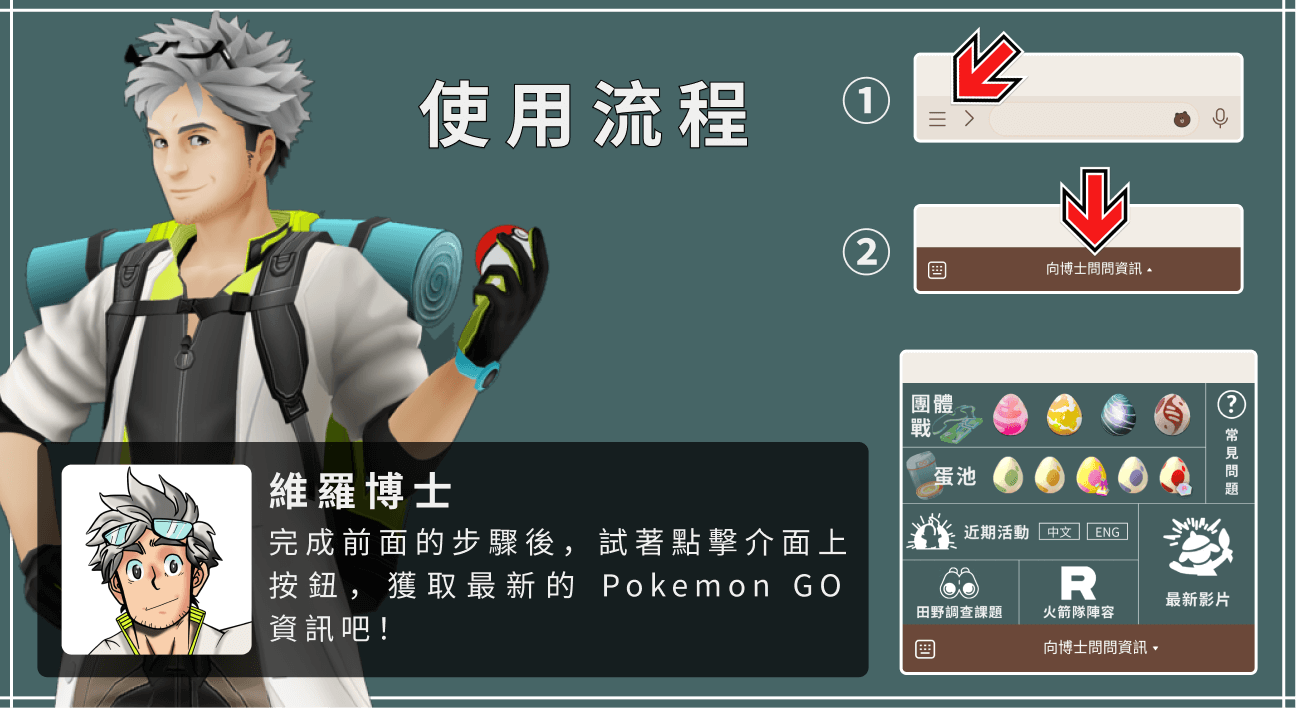
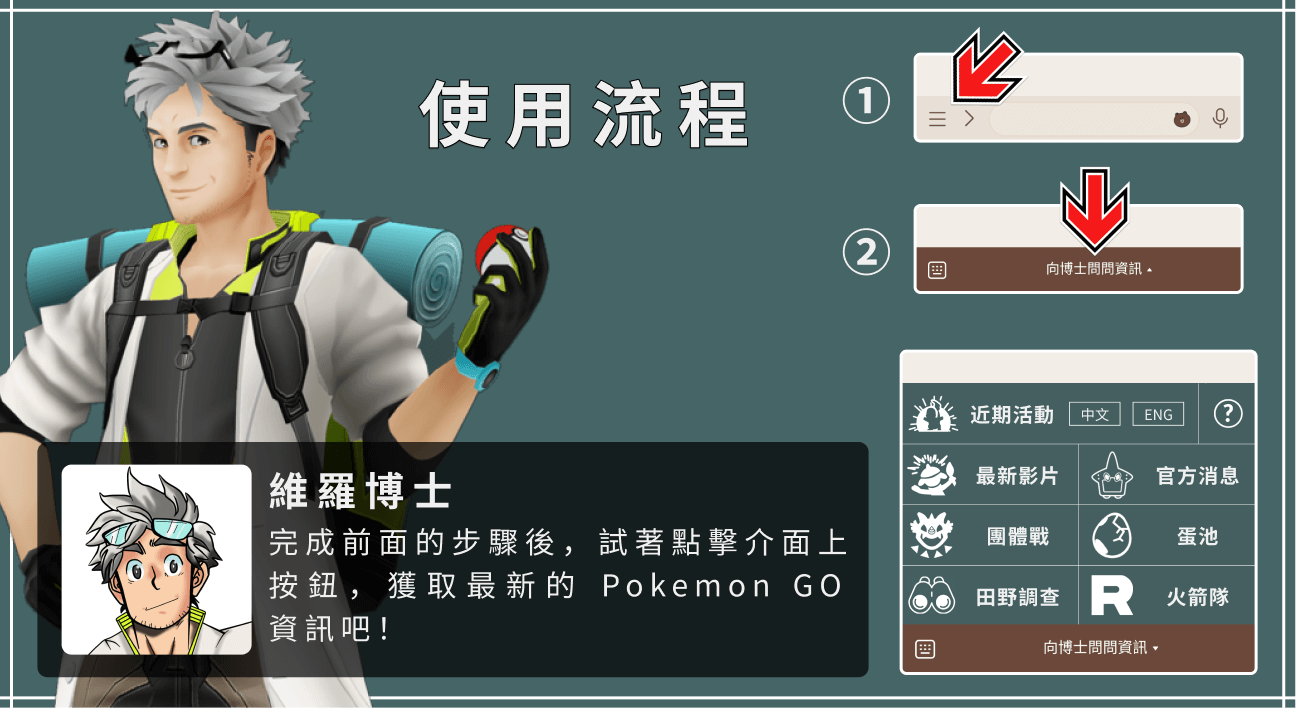
update richmenu

Changed region(s): [[0.679, 0.5593, 0.9568, 0.8701]]

diff --git a/messageTemplate/EggMessage.go b/messageTemplate/EggMessage.go
@@ -11,6 +11,74 @@ import (
 	"github.com/thoas/go-funk"
 )
 
+// GenerateEggListMessages sends LINE quick reply messages
+func GenerateEggListMessages() []linebot.SendingMessage {
+	return []linebot.SendingMessage{
+		linebot.NewTextMessage(
+			"你想要知道哪一種寶可夢蛋資訊？",
+		).WithQuickReplies(
+			linebot.NewQuickReplyItems(
+				linebot.NewQuickReplyButton(
+					"https://raw.githubusercontent.com/pmgo-professor-willow/line-chatbot/main/assets/eggs/12km.png",
+					&linebot.PostbackAction{
+						Label:       "12 公里",
+						Data:        "egg=12km",
+						DisplayText: "我想知道擊敗火箭隊幹部取得的獎勵 12 公里蛋\n(可儲存於獎勵儲存空間)",
+					},
+				),
+				linebot.NewQuickReplyButton(
+					"https://raw.githubusercontent.com/pmgo-professor-willow/line-chatbot/main/assets/eggs/10km.png",
+					&linebot.PostbackAction{
+						Label:       "10 公里",
+						Data:        "egg=10km",
+						DisplayText: "我想知道補給站取得的 10 公里蛋",
+					},
+				),
+				linebot.NewQuickReplyButton(
+					"https://raw.githubusercontent.com/pmgo-professor-willow/line-chatbot/main/assets/eggs/7km.png",
+					&linebot.PostbackAction{
+						Label:       "7 公里",
+						Data:        "egg=7km",
+						DisplayText: "我想知道透過好友禮物取得的 7 公里蛋",
+					},
+				),
+				linebot.NewQuickReplyButton(
+					"https://raw.githubusercontent.com/pmgo-professor-willow/line-chatbot/main/assets/eggs/5km.png",
+					&linebot.PostbackAction{
+						Label:       "5 公里",
+						Data:        "egg=5km",
+						DisplayText: "我想知道補給站取得的 5 公里蛋",
+					},
+				),
+				linebot.NewQuickReplyButton(
+					"https://raw.githubusercontent.com/pmgo-professor-willow/line-chatbot/main/assets/eggs/2km.png",
+					&linebot.PostbackAction{
+						Label:       "2 公里",
+						Data:        "egg=2km",
+						DisplayText: "我想知道補給站取得的 2 公里蛋",
+					},
+				),
+				linebot.NewQuickReplyButton(
+					"https://raw.githubusercontent.com/pmgo-professor-willow/line-chatbot/main/assets/eggs/10km.png",
+					&linebot.PostbackAction{
+						Label:       "時時刻刻冒險 10 公里",
+						Data:        "egg=時時刻刻冒險 10km",
+						DisplayText: "我想知道時時刻刻冒險取得的獎勵 10 公里蛋\n(可儲存於獎勵儲存空間)",
+					},
+				),
+				linebot.NewQuickReplyButton(
+					"https://raw.githubusercontent.com/pmgo-professor-willow/line-chatbot/main/assets/eggs/5km.png",
+					&linebot.PostbackAction{
+						Label:       "時時刻刻冒險 5 公里",
+						Data:        "egg=時時刻刻冒險 5km",
+						DisplayText: "我想知道時時刻刻冒險取得的獎勵 5 公里蛋\n(可儲存於獎勵儲存空間)",
+					},
+				),
+			),
+		),
+	}
+}
+
 // GenerateEggMessages converts eggs to LINE flex messages
 func GenerateEggMessages(eggs []gd.Egg, eggCategory string) []linebot.SendingMessage {
 	if utils.IsEmpty(eggs) {

diff --git a/messageTemplate/RaidBossMessage.go b/messageTemplate/RaidBossMessage.go
@@ -10,6 +10,50 @@ import (
 	"github.com/thoas/go-funk"
 )
 
+// GenerateRaidTierListMessages sends LINE quick reply messages
+func GenerateRaidTierListMessages() []linebot.SendingMessage {
+	return []linebot.SendingMessage{
+		linebot.NewTextMessage(
+			"你想要知道什麼星數的團體戰頭目資訊？",
+		).WithQuickReplies(
+			linebot.NewQuickReplyItems(
+				linebot.NewQuickReplyButton(
+					"https://raw.githubusercontent.com/pmgo-professor-willow/line-chatbot/main/assets/raids/tier-5.png",
+					&linebot.PostbackAction{
+						Label:       "五星團體戰",
+						Data:        "raidTier=5",
+						DisplayText: "我想知道五星團體戰的頭目資訊",
+					},
+				),
+				linebot.NewQuickReplyButton(
+					"https://raw.githubusercontent.com/pmgo-professor-willow/line-chatbot/main/assets/raids/tier-mega.png",
+					&linebot.PostbackAction{
+						Label:       "MEGA 團體戰",
+						Data:        "raidTier=mega",
+						DisplayText: "我想知道 MEGA 團體戰的頭目資訊",
+					},
+				),
+				linebot.NewQuickReplyButton(
+					"https://raw.githubusercontent.com/pmgo-professor-willow/line-chatbot/main/assets/raids/tier-3.png",
+					&linebot.PostbackAction{
+						Label:       "三、四星團體戰",
+						Data:        "raidTier=3,4",
+						DisplayText: "我想知道三、四星團體戰的頭目資訊",
+					},
+				),
+				linebot.NewQuickReplyButton(
+					"https://raw.githubusercontent.com/pmgo-professor-willow/line-chatbot/main/assets/raids/tier-1.png",
+					&linebot.PostbackAction{
+						Label:       "一、二星團體戰",
+						Data:        "raidTier=1,2",
+						DisplayText: "我想知道一、二星團體戰的頭目資訊",
+					},
+				),
+			),
+		),
+	}
+}
+
 // GenerateRaidBossMessages converts raid bosses to LINE flex messages
 func GenerateRaidBossMessages(raidBosses []gd.RaidBoss, raidTier string) []linebot.SendingMessage {
 	bossChunks := funk.Chunk(raidBosses, 10).([][]gd.RaidBoss)

diff --git a/functions.go b/functions.go
@@ -110,19 +110,23 @@ func PostbackReply(client *linebot.Client, replyToken string, qs url.Values) {
 		}
 
 		selectedRaidTierRaw := qs.Get("raidTier")
-		selectedRaidTiers := strings.Split(selectedRaidTierRaw, ",")
+		if selectedRaidTierRaw == "list" {
+			messages = mt.GenerateRaidTierListMessages()
+		} else {
+			selectedRaidTiers := strings.Split(selectedRaidTierRaw, ",")
 
-		funk.ForEach(selectedRaidTiers, func(selectedRaidTier string) {
-			selectedRaidBosses := gd.FilterdRaidBosses(cache.RaidBosses, selectedRaidTier)
-			messages = append(
-				messages,
-				mt.GenerateRaidBossMessages(selectedRaidBosses, selectedRaidTier)...,
-			)
-		})
+			funk.ForEach(selectedRaidTiers, func(selectedRaidTier string) {
+				selectedRaidBosses := gd.FilterdRaidBosses(cache.RaidBosses, selectedRaidTier)
+				messages = append(
+					messages,
+					mt.GenerateRaidBossMessages(selectedRaidBosses, selectedRaidTier)...,
+				)
+			})
 
-		// If empty.
-		if mtUtils.IsEmpty(messages) {
-			messages = mtUtils.GenerateEmptyReasonMessage()
+			// If empty.
+			if mtUtils.IsEmpty(messages) {
+				messages = mtUtils.GenerateEmptyReasonMessage()
+			}
 		}
 	} else if qs.Get("egg") != "" {
 		// Refresh cache about data from cloud.
@@ -132,8 +136,12 @@ func PostbackReply(client *linebot.Client, replyToken string, qs url.Values) {
 		}
 
 		selectedEggCategory := qs.Get("egg")
-		selectedEggs := gd.FilterdEggs(cache.Eggs, selectedEggCategory)
-		messages = mt.GenerateEggMessages(selectedEggs, selectedEggCategory)
+		if selectedEggCategory == "list" {
+			messages = mt.GenerateEggListMessages()
+		} else {
+			selectedEggs := gd.FilterdEggs(cache.Eggs, selectedEggCategory)
+			messages = mt.GenerateEggMessages(selectedEggs, selectedEggCategory)
+		}
 	} else if qs.Get("research") != "" {
 		// Refresh cache about data from cloud.
 		if time.Since(cache.ResearchesUpdatedAt).Minutes() > 1 {

diff --git a/messageTemplate/OfficialPostMessage.go b/messageTemplate/OfficialPostMessage.go
@@ -13,7 +13,7 @@ func GenerateOfficialPostMessages(officialPosts []gd.OfficialPost) []linebot.Sen
 
 	return funk.Map(postChunks, func(postChunk []gd.OfficialPost) linebot.SendingMessage {
 		return linebot.NewFlexMessage(
-			"進行的官方公告整理",
+			"近期的官方公告整理",
 			&linebot.CarouselContainer{
 				Type:     linebot.FlexContainerTypeCarousel,
 				Contents: funk.Map(postChunk, GenerateOfficialPostBubbleMessage).([]*linebot.BubbleContainer),

diff --git a/messageTemplate/EventMessage.go b/messageTemplate/EventMessage.go
@@ -23,7 +23,7 @@ type RemainingTime struct {
 func GenerateEventListMessages() []linebot.SendingMessage {
 	return []linebot.SendingMessage{
 		linebot.NewTextMessage(
-			"想知道進行中還是即將結束的活動？ (英文版資訊)",
+			"想知道進行中還是即將結束的活動？\n(英文版資訊)",
 		).WithQuickReplies(
 			linebot.NewQuickReplyItems(
 				linebot.NewQuickReplyButton(
